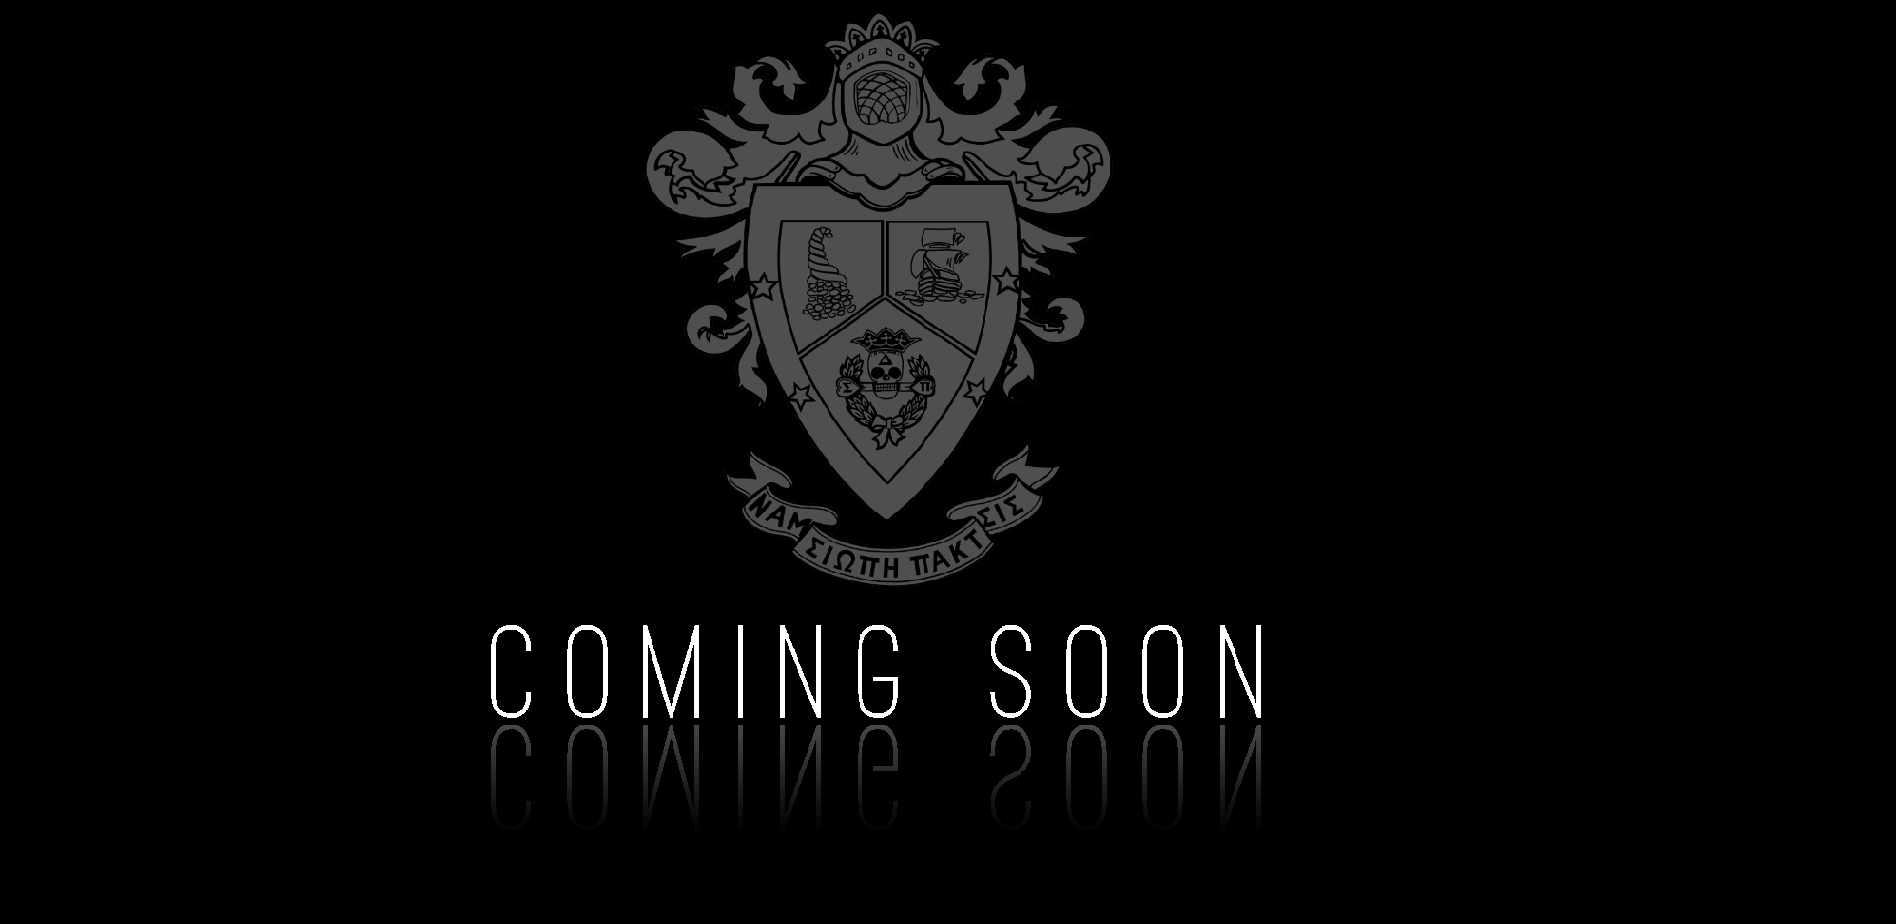
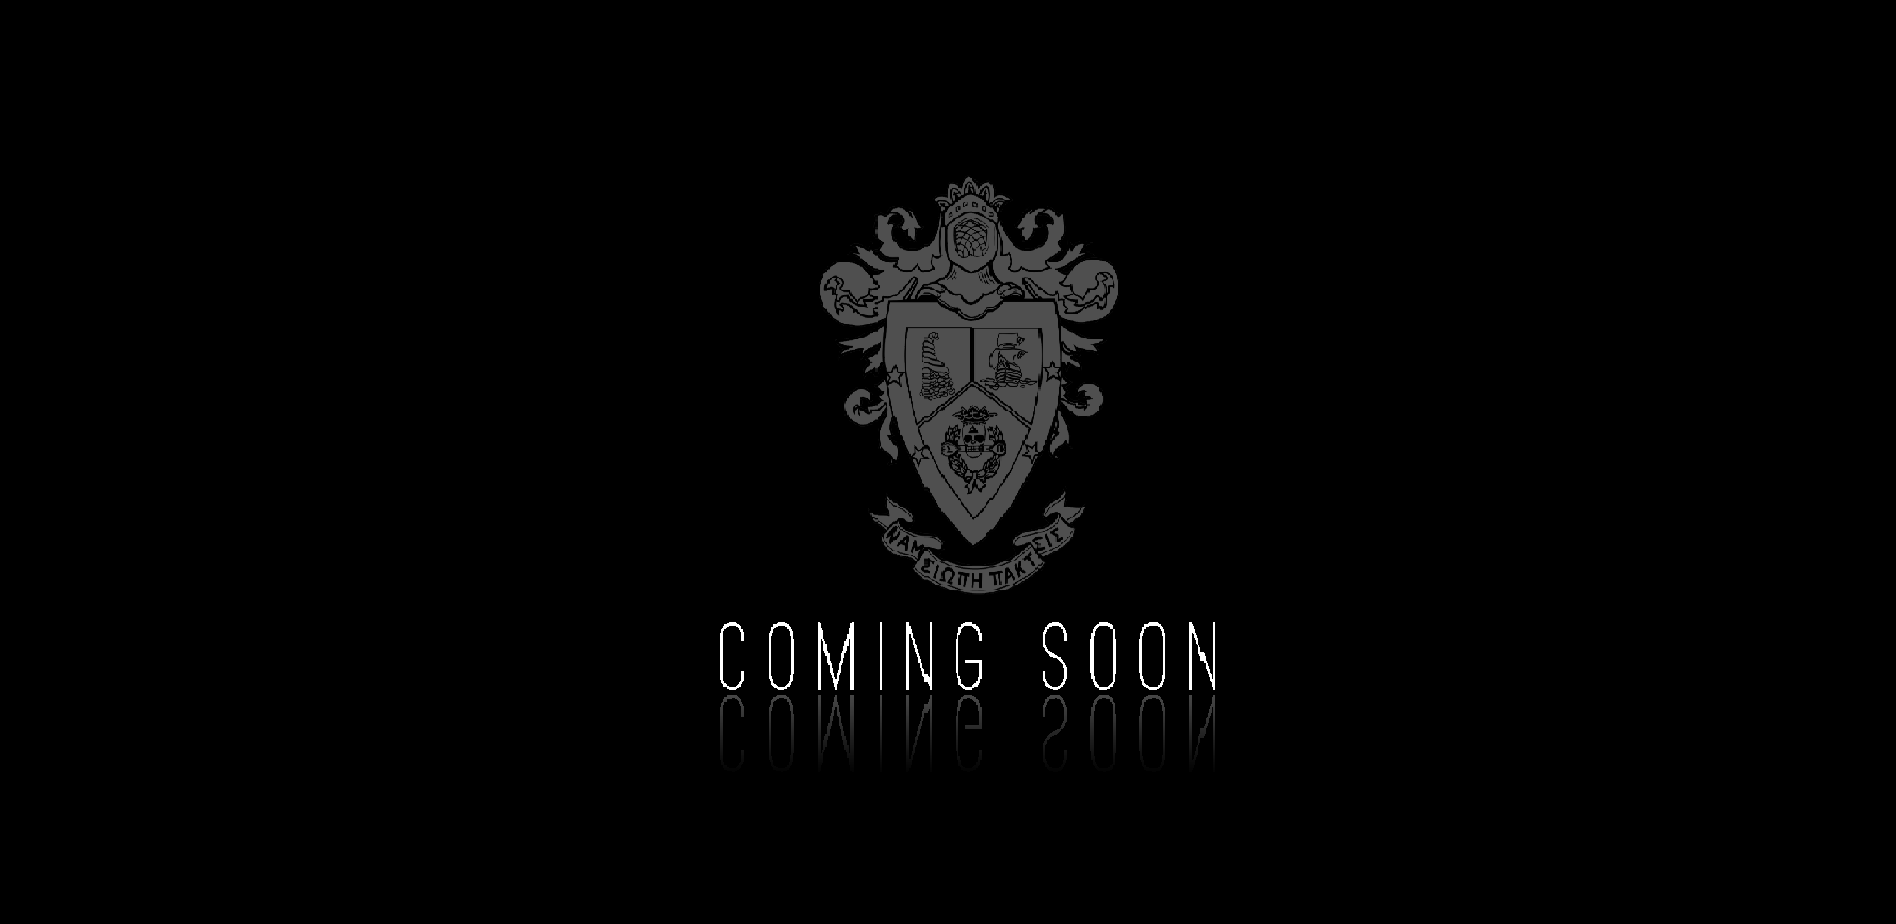
changed size of pic and took out caption

Changed region(s): [[0.2489, 0.0, 0.6846, 0.8485]]

diff --git a/index.html b/index.html
@@ -88,7 +88,7 @@
  -->
                 <div class="fill" style="background-image:url('./img/placeholder.png');"></div>
                 <div class="carousel-caption">
-                    <h2>Caption 1</h2>
+                    <h2></h2>
                 </div>
             </div>
             <div class="item">
